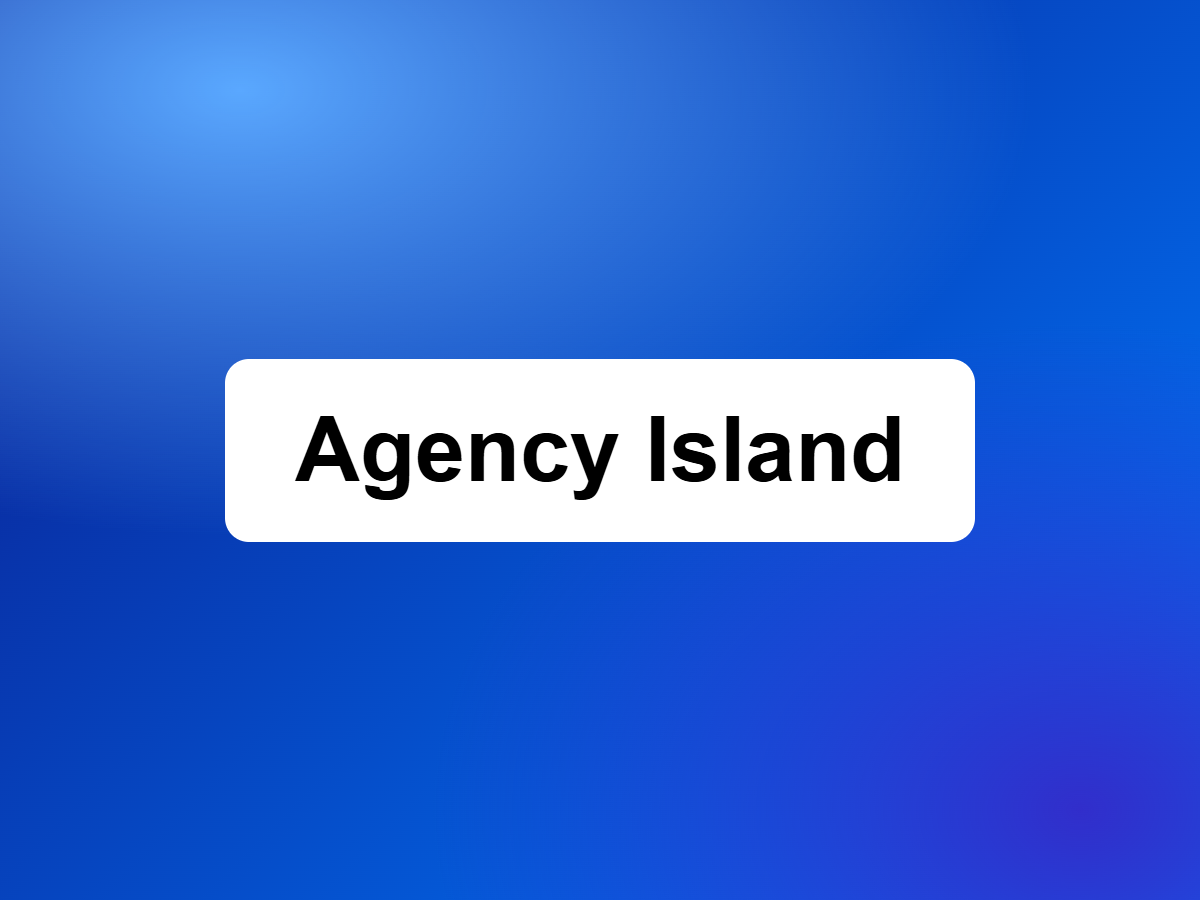
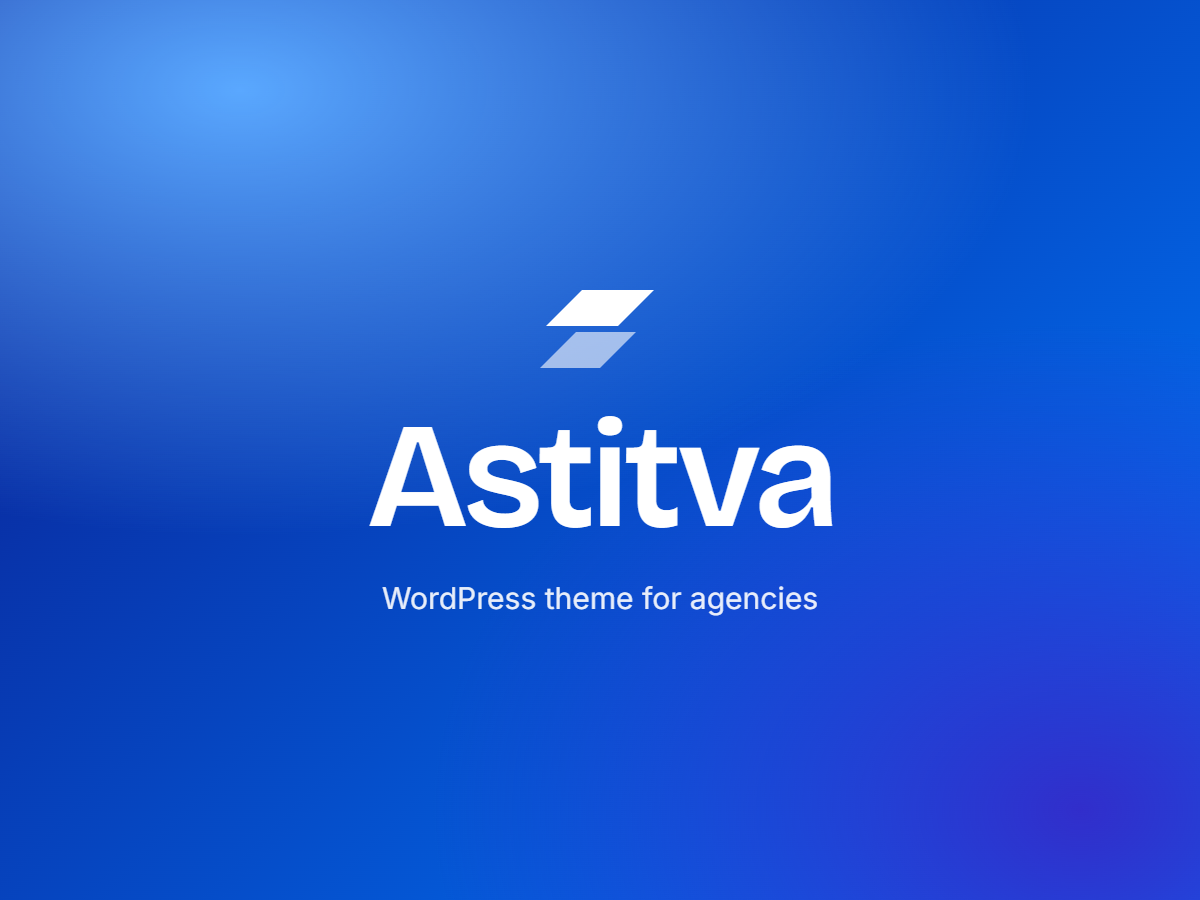
Add live demo link, demo blueprint and Astitva preview image

Changed region(s): [[0.185, 0.3111, 0.8325, 0.6222], [0.3083, 0.6533, 0.6783, 0.6844]]

diff --git a/README.md b/README.md
@@ -1,4 +1,14 @@
-# Astitva: Install and Setup
+# Astitva
+
+![Astitva theme](astitva/screenshot.png)
+
+**[Open the live demo](https://playground.wordpress.net/?blueprint-url=https://raw.githubusercontent.com/digitalhulk/astitva/main/demo/blueprint.json)**
+
+The demo runs a complete WordPress site with Astitva in your own browser, free, with no sign-up. The first load takes 1 to 2 minutes while it installs Elementor and the demo pages. Nothing you change there is saved, and it does not affect any real site. To see the admin area, open `/wp-admin/` in the demo.
+
+**[Download the latest version](https://github.com/digitalhulk/astitva/releases/latest)**
+
+## Install and Setup
 
 Two packages make up the site. Both are in the `dist` folder.
 
